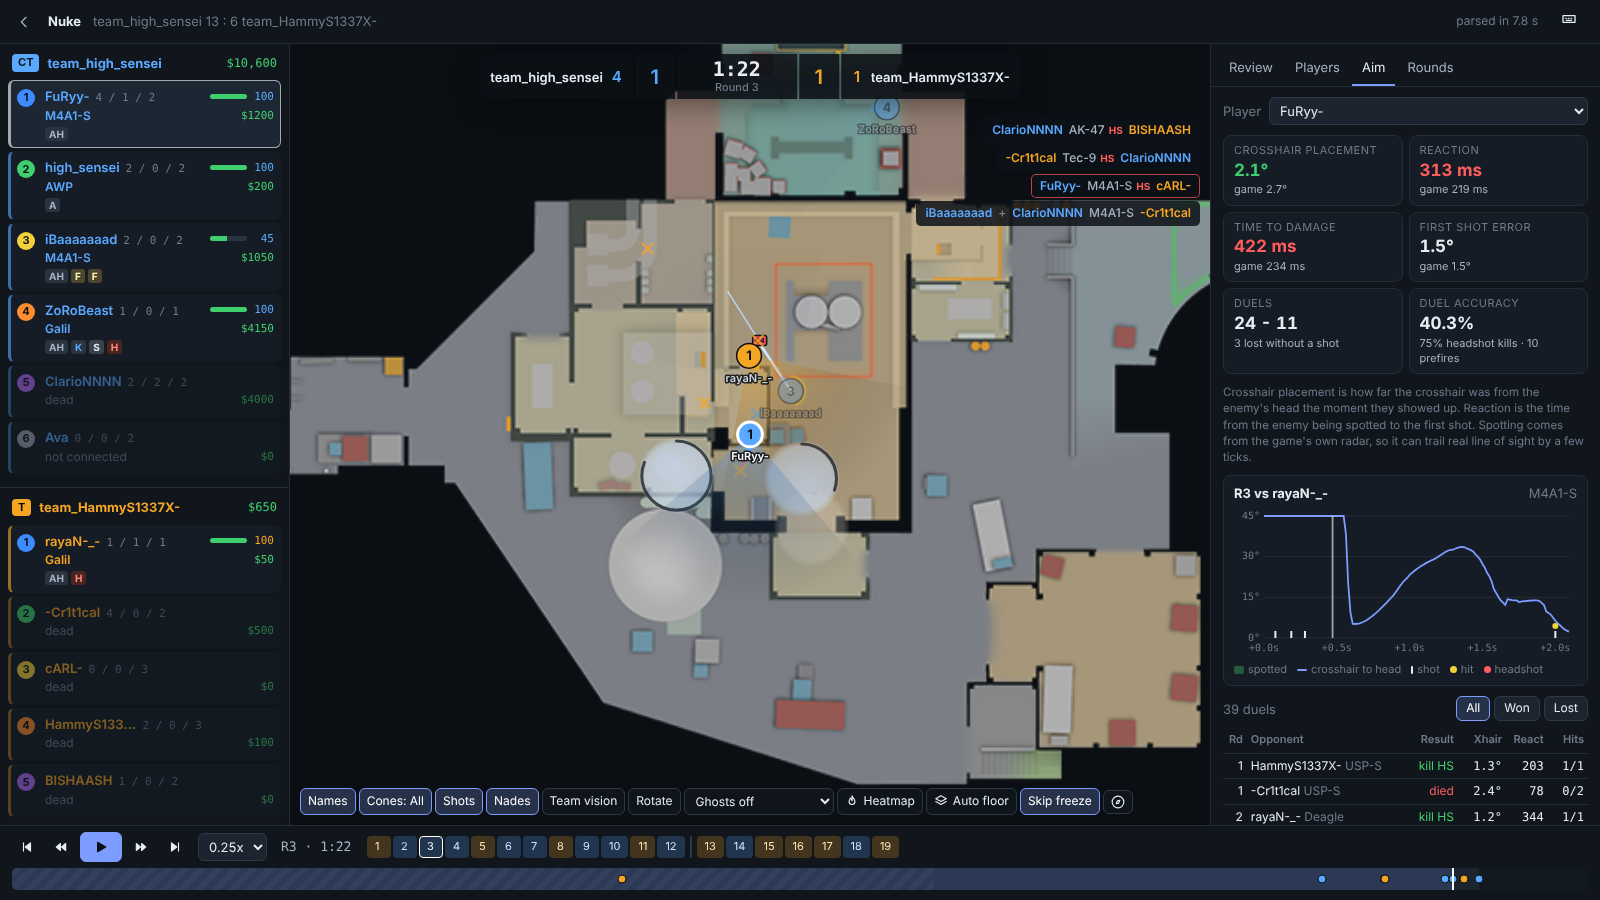
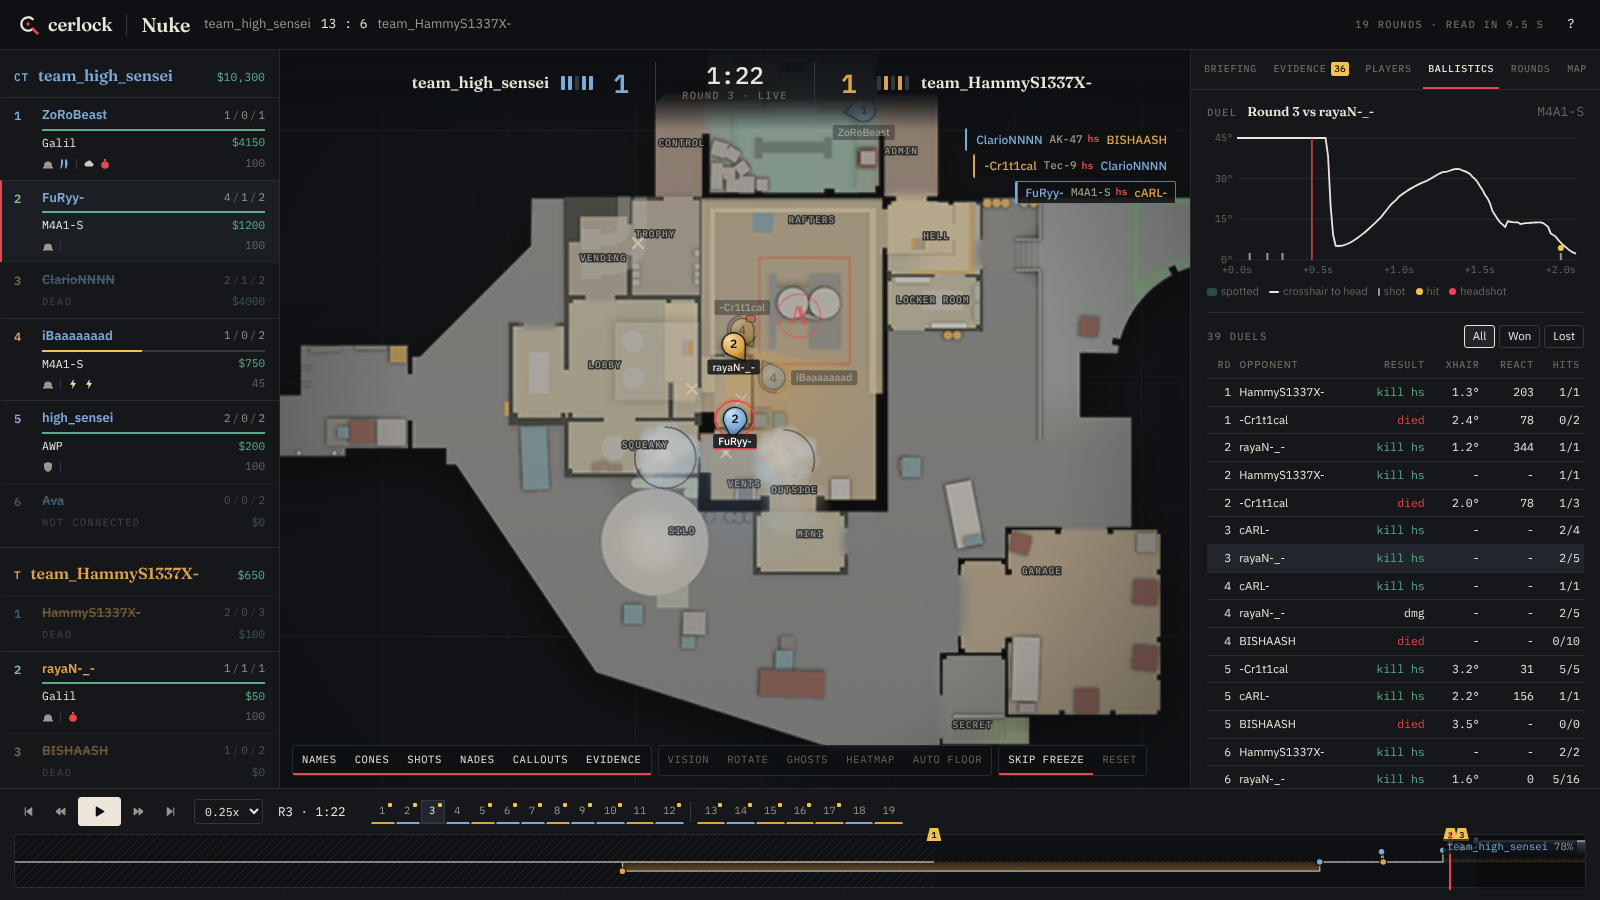
Update readme and screenshots

diff --git a/README.md b/README.md
@@ -2,29 +2,57 @@
 
 A fast CS2 demo viewer and review tool for teams.
 
-Drop in a demo and watch every round on a 2D radar. Follow any player around the map, see every smoke, flash and molotov, and get a list of things the team (or a single player) should work on. Every finding links to the exact moment in the demo, so you can click it and watch what happened.
+Drop in a demo and watch every round on a 2D radar. Follow any player around the map, see every smoke, flash and molotov, and get a list of things the team (or a single player) should work on. Every finding and every mistake links to the exact moment in the demo, so you can click it and watch what happened.
+
+The name is Sherlock with the "Sh" swapped for the C in CS. A demo is treated like a case: every round leaves evidence, and Cerlock lays it out for you.
 
 ![Viewer](docs/viewer.png)
 
 ## Features
 
 **Replay**
-- Players as circles with view direction, health, weapon, utility and money
+- Players drawn as small pins that point where they look, with health, weapon, utility and money
 - Smokes with a countdown ring, molotov fire, HE and flash pops, grenade trajectories, shot tracers, kill lines and the bomb
 - Lines from each flash to the players it blinded, with the blind time (red if it was a teammate)
+- Callout names on the map (Ramp, Heaven, Outside...) taken from the demo itself, and site letters where the bomb was planted
 - Follow a player by clicking them or pressing 1 to 0. Optionally rotate the map with their view
 - Team vision: only show the enemies the followed player's team could actually see
 - Ghosts: where a team stood at the same point in every other round on the same side, good for spotting setups and habits
-- Heatmaps for positions, kills and deaths, per player or per team
+- Heatmaps for positions, kills and deaths, per player, per team or for a single callout
 - Two level maps (Nuke, Train, Vertigo) switch floor automatically
+
+**Evidence (mistakes)**
+
+Cerlock goes through every round and pulls out single mistakes you can watch. Each one shows up as a numbered marker on the map and on the timeline, and clicking it jumps a few seconds before it happened and follows the player.
+
+- Team kills, team damage and dying to a teammate's flash
+- Dying while reloading or while blind from your own flash
+- Peeking into a crossfire, or staying on the same angle after a kill and getting traded
+- Dying with a lot of unused utility, or without armor on a buy round
+- The bomb carrier taking the first fight, running out of time on T side, dying to the bomb, defusing too late
+- Buying out of sync with the team, molotovs that burned for a second, shooting while running
+
+Every mistake has a cost: how much the team's chance to win the round dropped because of it. That makes it easy to sort the small stuff from what actually lost rounds.
+
+![Evidence](docs/evidence.png)
+
+**Win chance**
+- A simple model of players alive and the bomb gives a win chance for every moment of the round, drawn on the timeline
+- Round swing per player: how much each player moved their team's win chance over the match, from kills, deaths and plants
 
 **Team review**
 - Opening duels, traded deaths, rounds won after the first kill, pistols, eco and anti-eco rounds, post-plants and retakes, utility per round, team flashes and unused utility
-- Findings like "Deaths are not getting traded" or "Losing anti-eco rounds", each with the rounds and ticks it is based on
+- Findings like "Deaths are not getting traded", "Losing anti-eco rounds" or "Losing fights at Bombsite A", each with the rounds and ticks it is based on
+- Map control: kills and deaths per callout and side, where the team keeps losing fights and where it wins them, and how long it spends in each area
+- Round notes: the setup each team played, when and where the T side hit, and a short story of the round (opening kill, trades, big swings, clutches)
 
 **Player report**
-- K/D/A, ADR, KAST, HLTV 1.0 rating, opening duels, trades, isolated and early deaths, clutches, flash stats and more
-- Personal findings, for example dying where nobody can trade, flashing teammates or crosshair placement
+- K/D/A, ADR, KAST, HLTV 1.0 rating, kills and deaths per round, round swing, split by CT and T side
+- Opening duels, trades and average time to trade, isolated and early deaths, clutches, multi kills
+- Utility: flash blind time per flash, HE and molotov damage per nade, teammates flashed
+- Movement: time alive, distance travelled, shots fired while standing still, average kill distance
+- Kills per weapon and the callouts where a player gets most kills and dies the most
+- Personal findings, for example dying where nobody can trade, flashing teammates, shooting while moving or crosshair placement
 
 **Aim**
 - Every duel is cut out at full tick rate and measured: crosshair placement when the enemy showed up, reaction time to the first shot, time to damage, first shot error and flick size
@@ -43,16 +71,16 @@ Demo processing usually takes a long time in other tools, so this was the main t
 
 | Demo | Size | Parse + analysis | Replay file |
 | --- | --- | --- | --- |
-| FACEIT 5v5, Nuke, 64 tick | 299 MB | 7.1 s | 2.5 MB |
-| Matchmaking, Ancient | 39 MB | 3.0 s | 1.6 MB |
+| FACEIT 5v5, Nuke, 64 tick | 299 MB | 7.6 s | 2.6 MB |
+| Matchmaking, Ancient | 39 MB | 3.5 s | 1.7 MB |
 | Matchmaking, Anubis | 32 MB | 2.5 s | 1.2 MB |
 | Wingman, Overpass (gzipped upload) | 20 MB | 0.9 s | 0.5 MB |
 
-Opening a replay that is already parsed takes around 120 ms in the browser (about 350 ms the first time, when the map image is fetched).
+Opening a replay that is already parsed takes around 200 ms in the browser (a bit more the first time, when the map image is fetched).
 
 What makes it fast:
 
-- **One pass over the demo.** Positions, events, grenades and the aim windows are all collected in the same pass. The hot loop reads entity properties directly instead of going through helpers that look up the same entity many times, which cut parse time on the big demo from 12.3 s to 7.1 s.
+- **One pass over the demo.** Positions, events, grenades and the aim windows are all collected in the same pass. The hot loop reads entity properties directly instead of going through helpers that look up the same entity many times, which cut parse time on the big demo from 12.3 s to about 7 s.
 - **Parsing while uploading.** The server parses the upload as a stream, so the replay is ready right after the last byte arrives.
 - **No duplicate work.** A demo is identified by its size and first megabyte. The browser computes the same fingerprint, so a demo that was parsed before opens instantly without uploading anything.
 - **A replay format the browser does not need to parse.** A small JSON header plus raw typed columns (positions, angles, health...), gzipped. The browser wraps them in typed arrays without copying.
@@ -67,7 +95,7 @@ Before picking the parser I also tried demoparser2 (Rust) on the same 299 MB dem
 | --- | --- | --- |
 | Demo parsing | Go + [demoinfocs-golang](https://github.com/markus-wa/demoinfocs-golang) | Mature CS2 parser with a full game state (grenades, infernos, spotted flags, view angles), easy to run everything in one pass |
 | Server | Go standard library | One binary with the frontend embedded, nothing else to install |
-| Frontend | Svelte 5, TypeScript, Vite | Small bundle (about 47 kB gzipped) and fine grained updates |
+| Frontend | Svelte 5, TypeScript, Vite | Small bundle (about 57 kB of gzipped JS) and fine grained updates |
 | Rendering | Canvas 2D | Plenty for 10 players and a few dozen effects at 60 fps, no WebGL needed |
 | Replay format | Own binary format | Typed columns that load straight into the browser |
 
@@ -113,7 +141,8 @@ For every fight the parser keeps a short window of the attacker's view angles an
 
 - Exact line of sight from the map's collision mesh, instead of radar spotting
 - Spray control, using the recoil index and the shot pattern per weapon
-- Counter strafing, by looking at velocity at the moment of each shot
+
+Counter strafing is already in: every shot stores the player's speed, and a shot counts as "still" when the player was slow enough for the weapon to be accurate.
 
 ## Getting started
 
@@ -168,6 +197,8 @@ make test    # go vet, go test, svelte-check and vitest
 | R | Rotate the map with the followed player |
 | V | Team vision |
 | G | Ghosts |
+| E | Evidence markers |
+| C | Callouts |
 | H | Names |
 | L | Switch floor |
 
@@ -177,7 +208,7 @@ make test    # go vet, go test, svelte-check and vitest
 cmd/cerlock          CLI and server entry point
 internal/parse       single pass demo parser built on demoinfocs
 internal/aim         duel windows and aim metrics
-internal/analysis    stats and findings
+internal/analysis    stats, findings, mistakes, win chance and round notes
 internal/match       the parsed match model
 internal/replay      replay file writer
 internal/maps        overview files, radar images and the map cache
@@ -187,8 +218,17 @@ web/                 Svelte frontend
 scripts/             radar export from your own game files
 ```
 
+## Design
+
+The look is meant to feel like a case file on a dark desk instead of an esports overlay or a generic dashboard. Warm off-white text, one red for marking things, a yellow for evidence, and steel blue and ochre for the two sides. Fraunces for headings, IBM Plex Sans for text and IBM Plex Mono for numbers. The full notes are in [docs/BRAND.md](docs/BRAND.md).
+
 ## Credits
 
 - [demoinfocs-golang](https://github.com/markus-wa/demoinfocs-golang) for the demo parsing
 - Radar images and overview data belong to Valve. They are not stored in this repository
 - Test demos from the demoinfocs test set ([cs-demos-2](https://gitlab.com/markus-wa/cs-demos-2))
+- Fonts: [Fraunces](https://github.com/undercasetype/Fraunces), [IBM Plex Sans and IBM Plex Mono](https://github.com/IBM/plex), all under the SIL Open Font License, bundled through Fontsource
+
+## License
+
+MIT, see [LICENSE](LICENSE).
